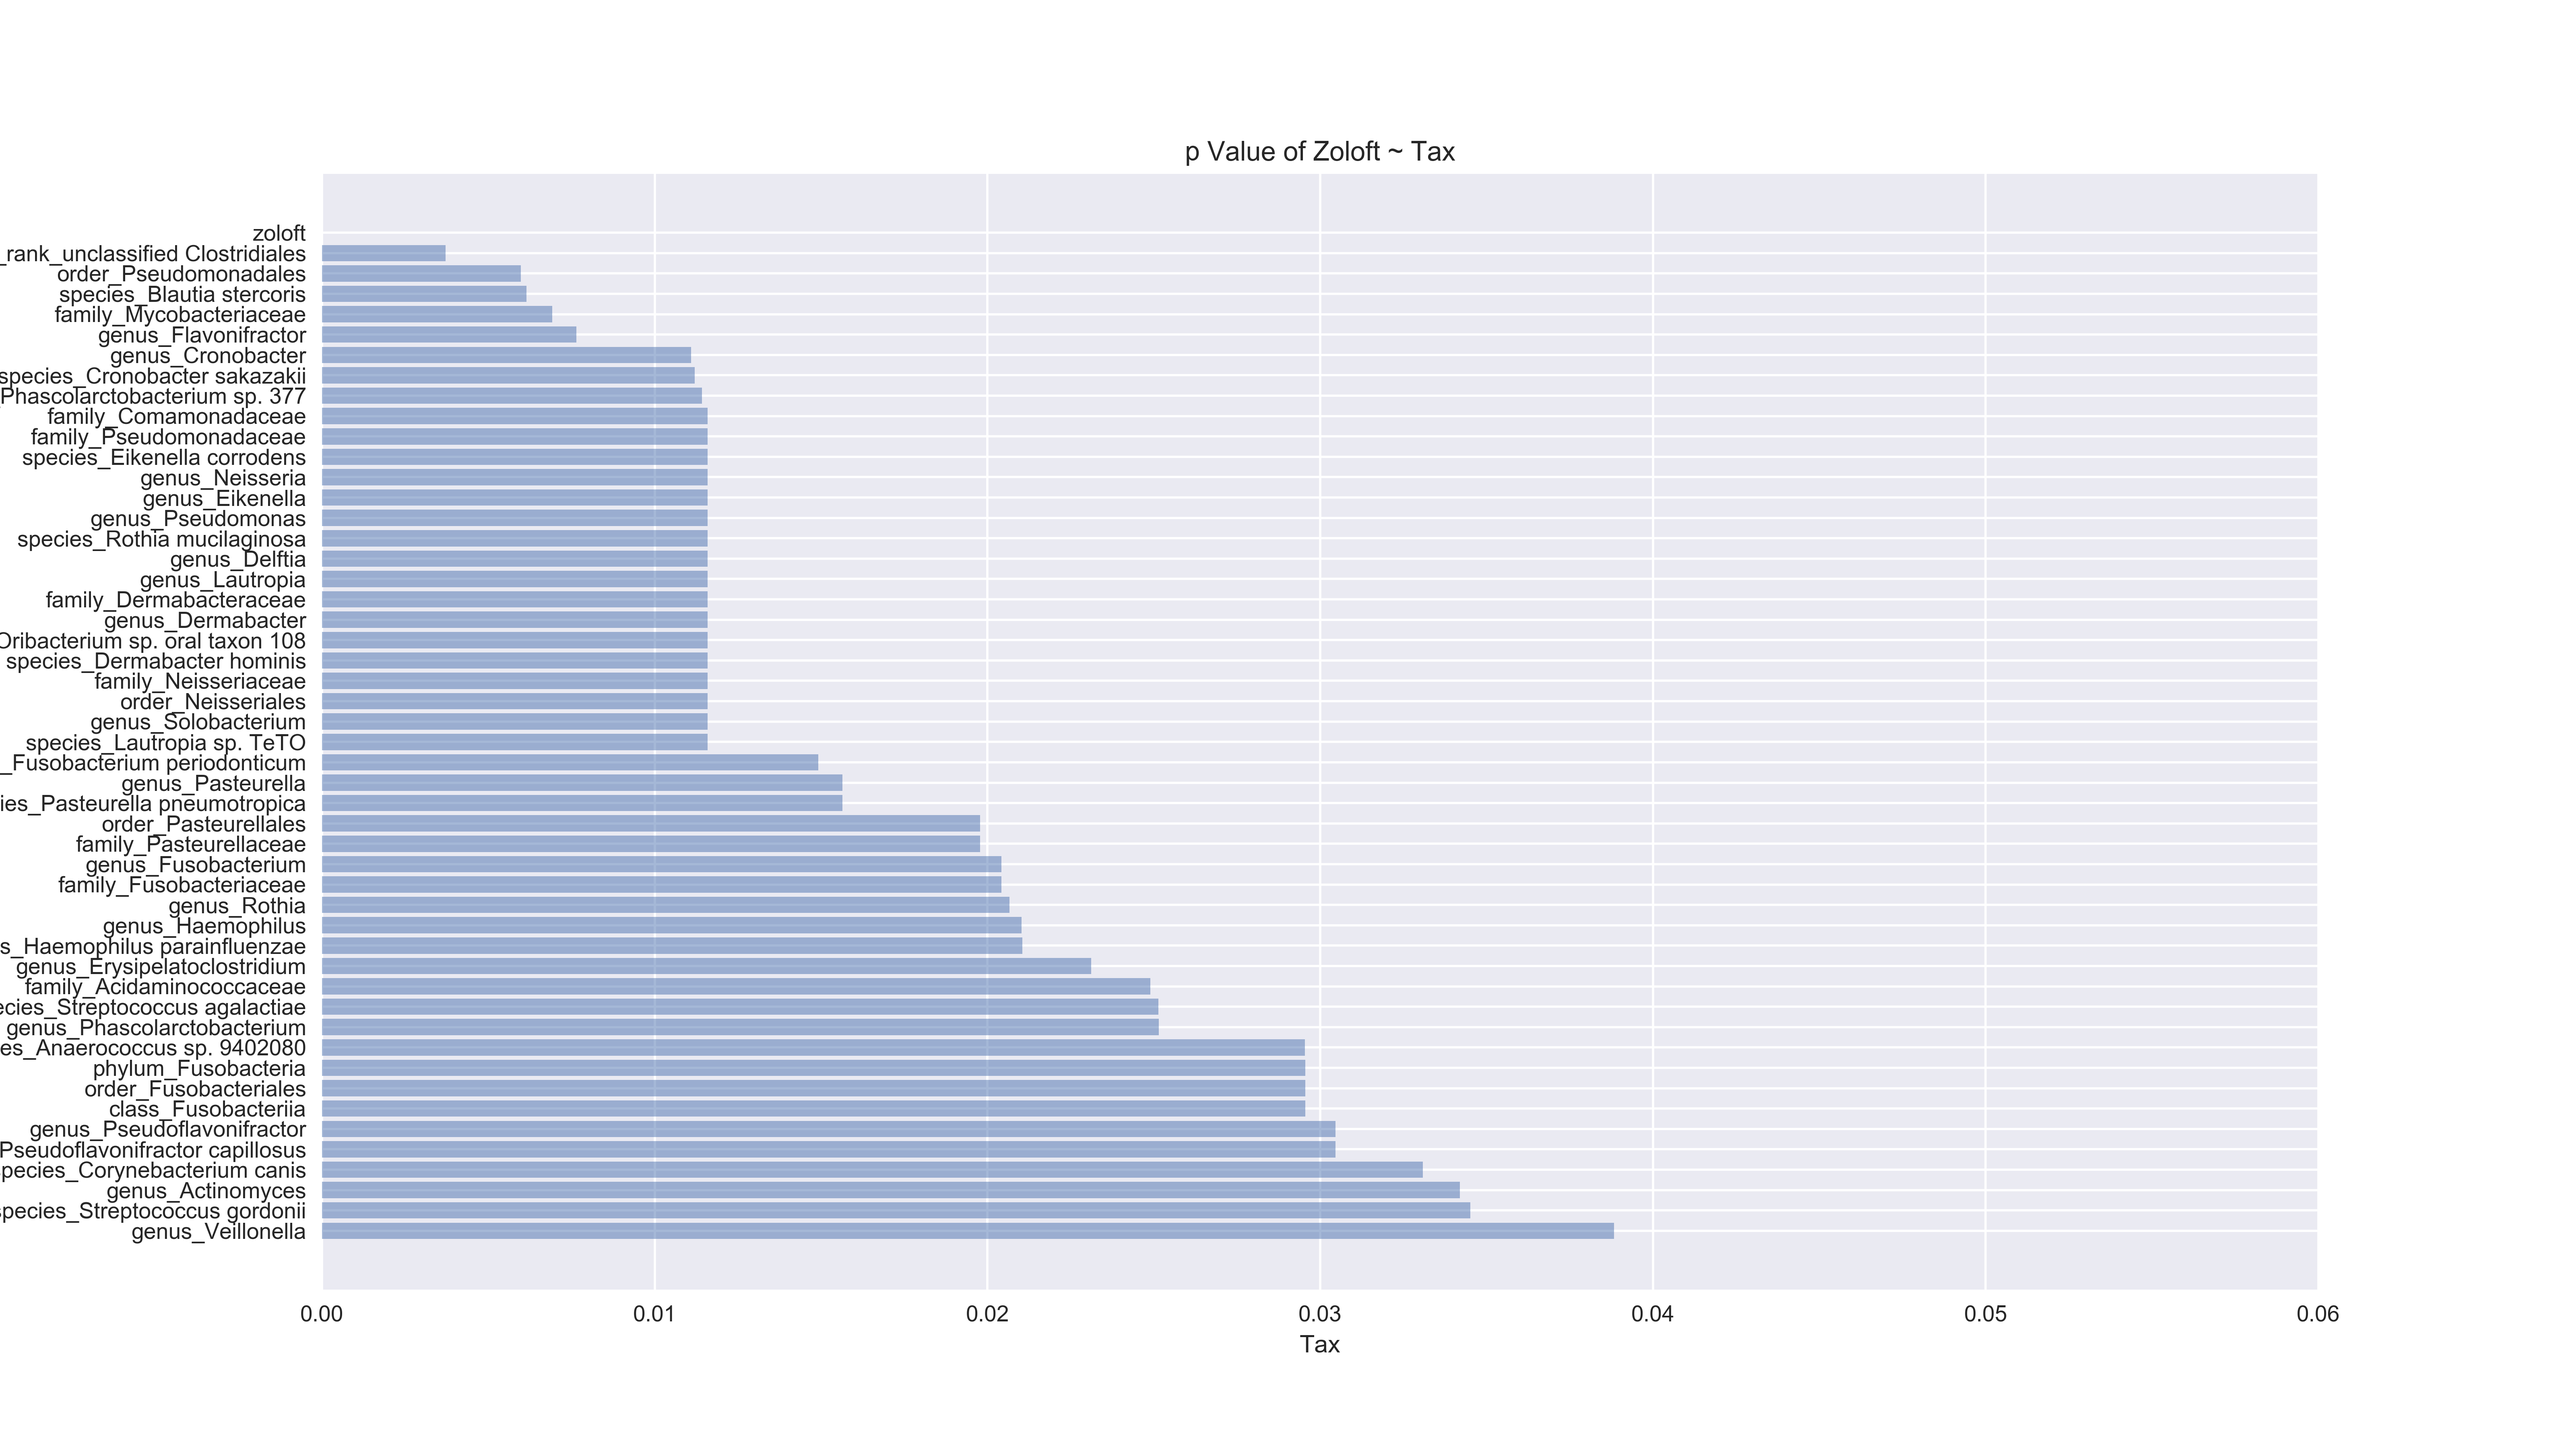
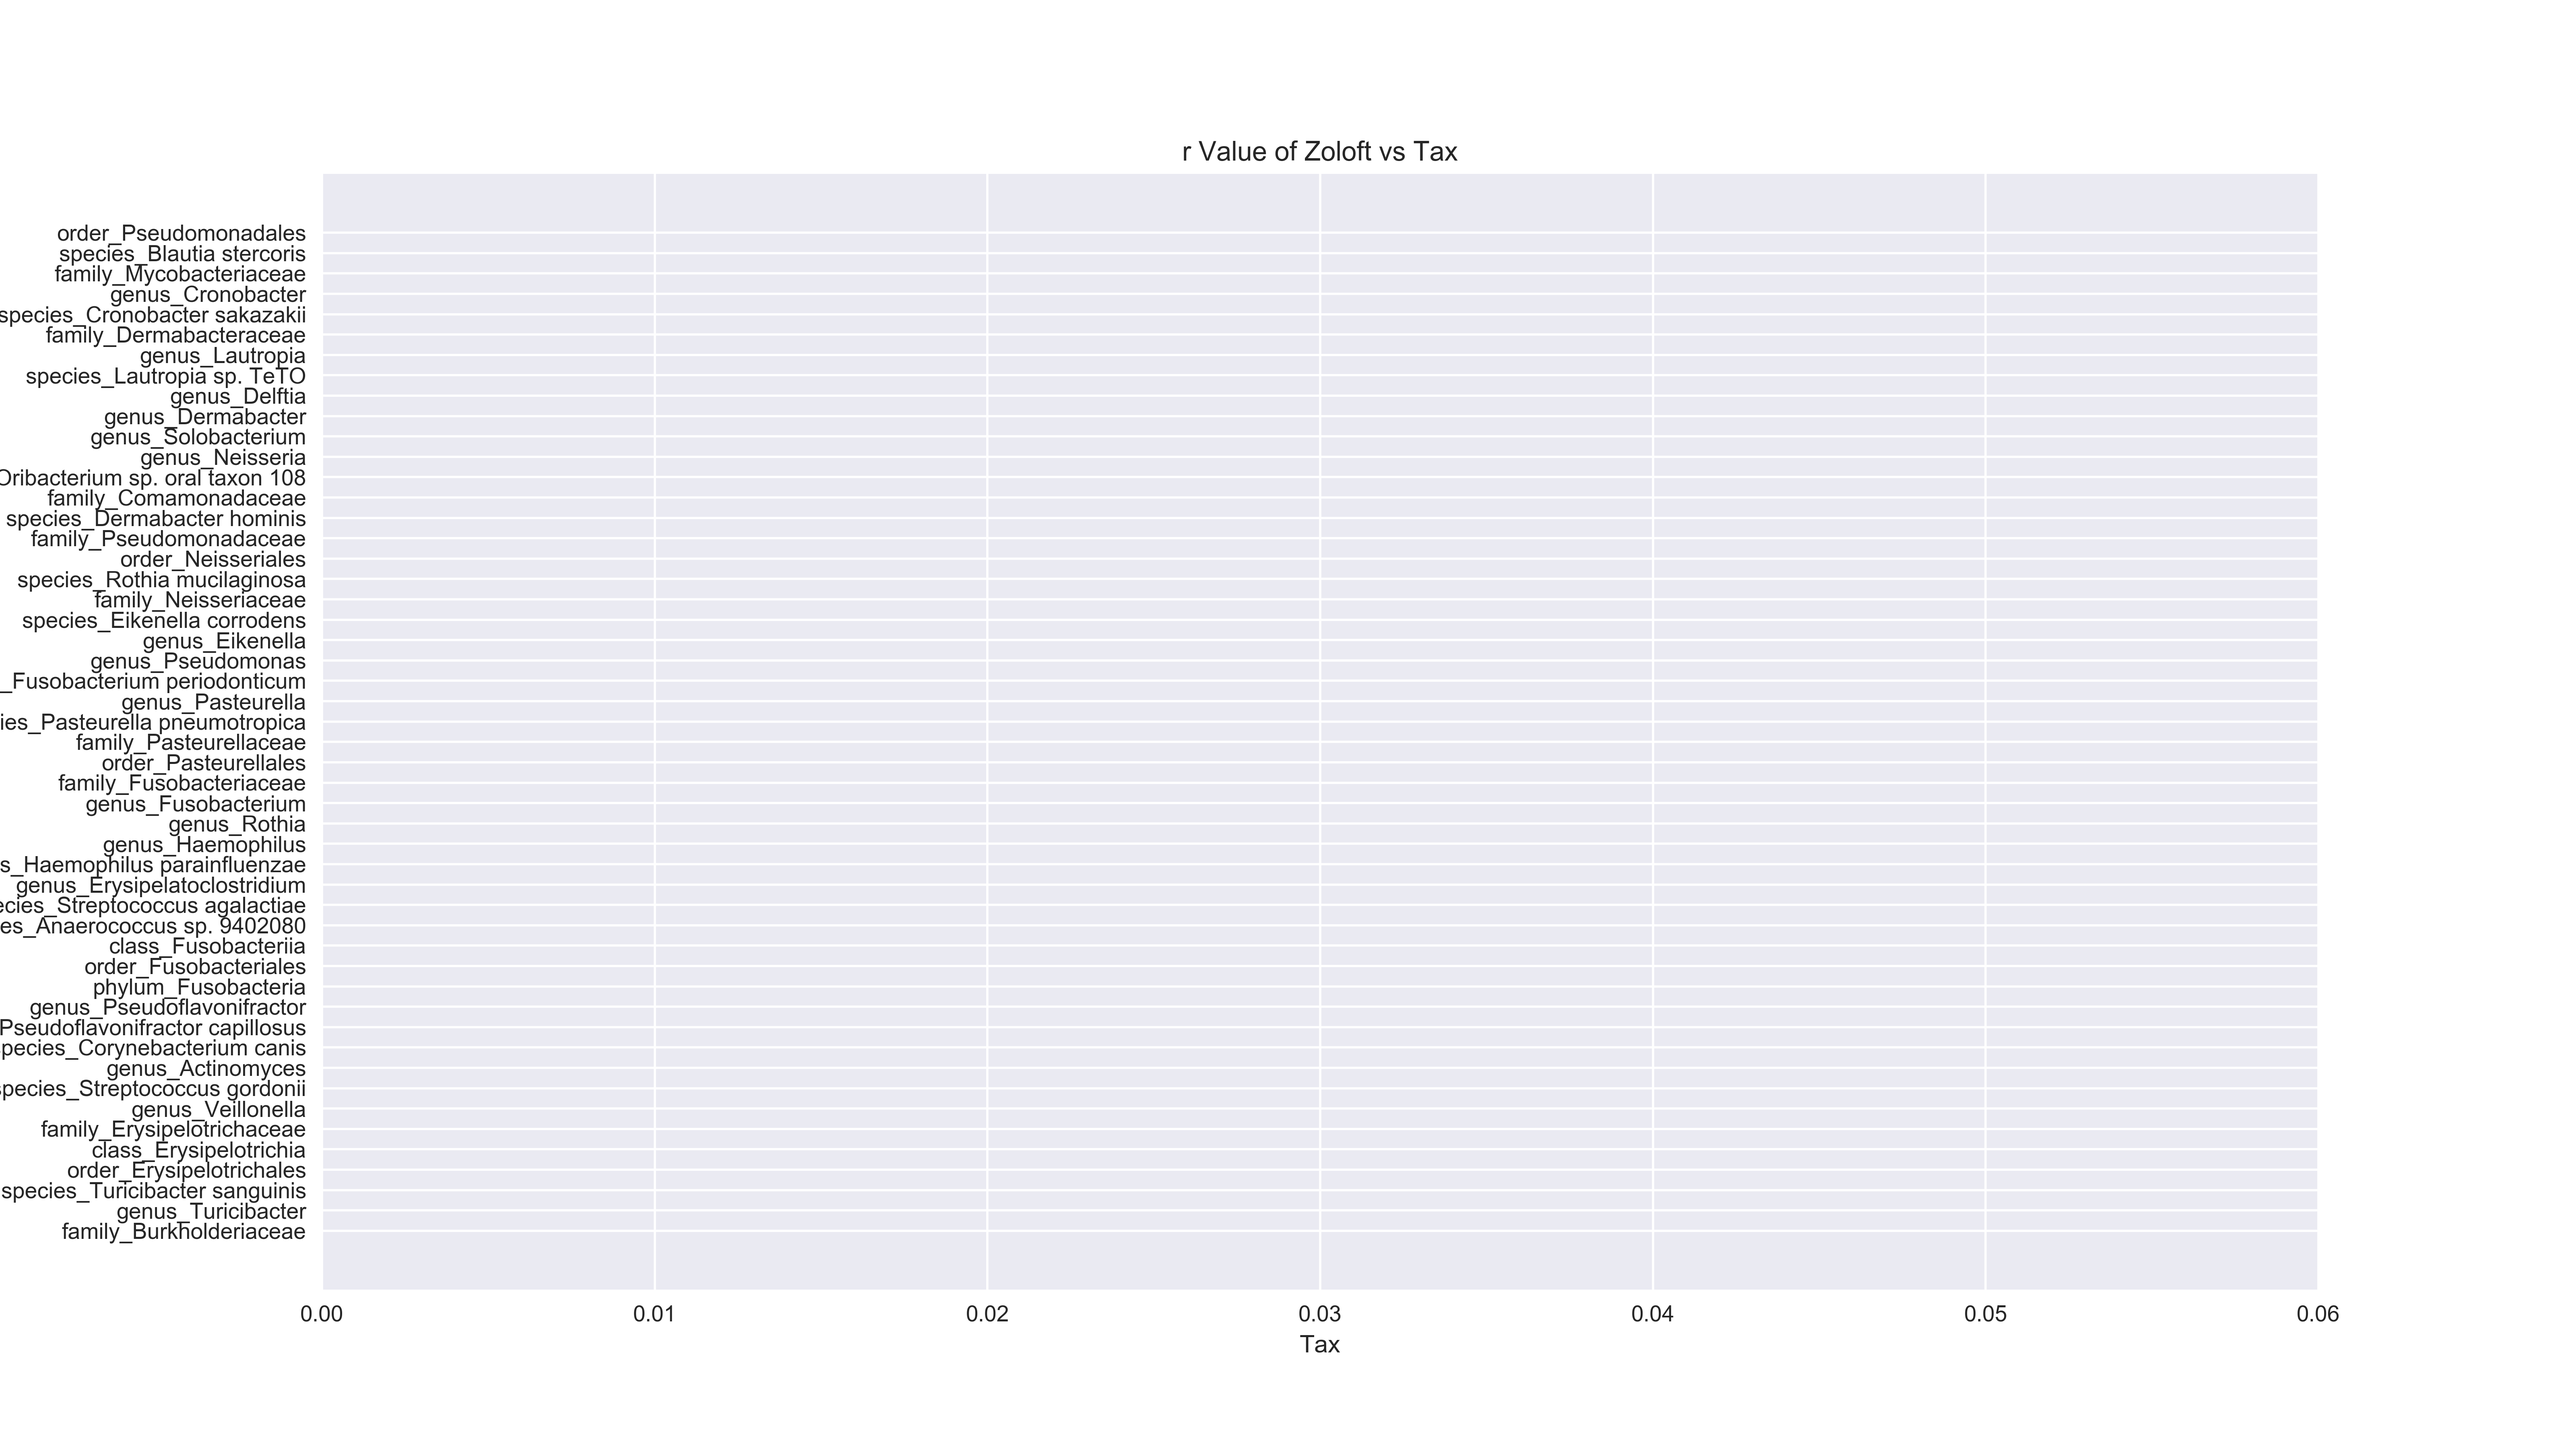
swapped r values for p values

Changed region(s): [[0.0, 0.1556, 0.625, 0.8711], [0.4688, 0.0933, 0.5625, 0.1244]]

diff --git a/code/main.py b/code/main.py
@@ -8,6 +8,7 @@ import time
 import numpy as np
 import scipy as sp
 import scipy.signal
+import scipy.stats
 
 import matplotlib
 import matplotlib.pyplot as plt
@@ -122,9 +123,23 @@ def ubiomeAnalysisPandas():
     df.set_value('2016-11-12', 'ubiome_wellness_match', 96.9)
     
     # Regress on wellness match
-    #filter_col = [col for col in list(df) if col.startswith('phy')]
-    from pandas.stats.api import ols
-    res = ols(y=df['ubiome_wellness_match'], x=df[['phylum_Actinobacteria', 'phylum_Bacteroidetes', 'phylum_Fibrobacteres', 'phylum_Firmicutes', 'phylum_Fusobacteria',  'phylum_Proteobacteria', 'phylum_Verrucomicrobia']])   
+    filter_col = [col for col in list(df) if col.startswith('phy')]
+    #from pandas.stats.api import ols
+    rVals = []
+    numCols = len(filter_col)
+    for col in filter_col:
+        # only keep r-values and p-values are not reliable for sample sizes < 500 
+        # Citation: https://docs.scipy.org/doc/scipy-0.14.0/reference/generated/scipy.stats.pearsonr.html
+        rVals.append(sp.stats.pearsonr(df[col], df['ubiome_wellness_match'])[0])
+    
+    plt.figure()
+    plt.bar(np.arange(0,numCols), rVals, tick_label=filter_col)
+    plt.xticks(rotation='vertical')
+    plt.ylim(-1,1)
+    plt.title('Correlation Between Ubiome Wellness Match and Phyla')
+    plt.show()
+    plt.close()
+    #res = ols(y=df['ubiome_wellness_match'], x=df[['phylum_Actinobacteria', 'phylum_Bacteroidetes', 'phylum_Fibrobacteres', 'phylum_Firmicutes', 'phylum_Fusobacteria',  'phylum_Proteobacteria', 'phylum_Verrucomicrobia']])   
     
     #import statsmodels
     #model = statsmodels.regression.linear_model.OLS('month ~ phylum_Actinobacteria', df)    
@@ -190,18 +205,17 @@ def ubiomeAnalysisPandas():
     plt.close()
     
     #-----------------------------------------------------------------------------------------------
-    # Regress against nexium for all
+    # Correlation against nexium for all
     # TODO make into function, add subplot with coef
-    pValues = []
+    rValues = []
     for k in df.columns:
-        c = ols(y=df['zoloft'], x=df[k])
-        pValues.append(c.p_value.x)
+        #c = ols(y=df['zoloft'], x=df[k])
+        rValues.append(sp.stats.pearsonr(df['zoloft'], df[k])[0])
     
     # Show top 50 pValues
-    pValues = np.array(pValues)
-    idx = np.argsort(pValues)
-    idx = idx[:50]
-    idx = idx[::-1]
+    rValues = np.array(rValues)
+    idx = np.argsort(np.abs(rValues))
+    idx = idx[-50:]
     
     objects = df.columns[idx]
     y_pos = np.arange(len(objects))
@@ -209,13 +223,13 @@ def ubiomeAnalysisPandas():
     plt.figure()
     fig = matplotlib.pyplot.gcf()
     fig.set_size_inches(16,9)        
-    plt.barh(y_pos, pValues[idx], align='center', alpha=0.5)
-    plt.xlim(0, 0.06)
+    plt.barh(y_pos, rValues[idx], align='center', alpha=0.5)
+    plt.xlim(-1,1)
     plt.yticks(y_pos, objects)
     plt.xlabel('p value')    
     plt.xlabel('Tax')   
-    plt.title('p Value of Zoloft ~ Tax')
-    plt.savefig(r'..\results\zoloft_p_values.png', dpi = 400) 
+    plt.title('r Value of Zoloft vs Tax')
+    plt.savefig(r'..\results\zoloft_r_values.png', dpi = 400) 
     plt.close()
     
     #-----------------------------------------------------------------------------------------------
